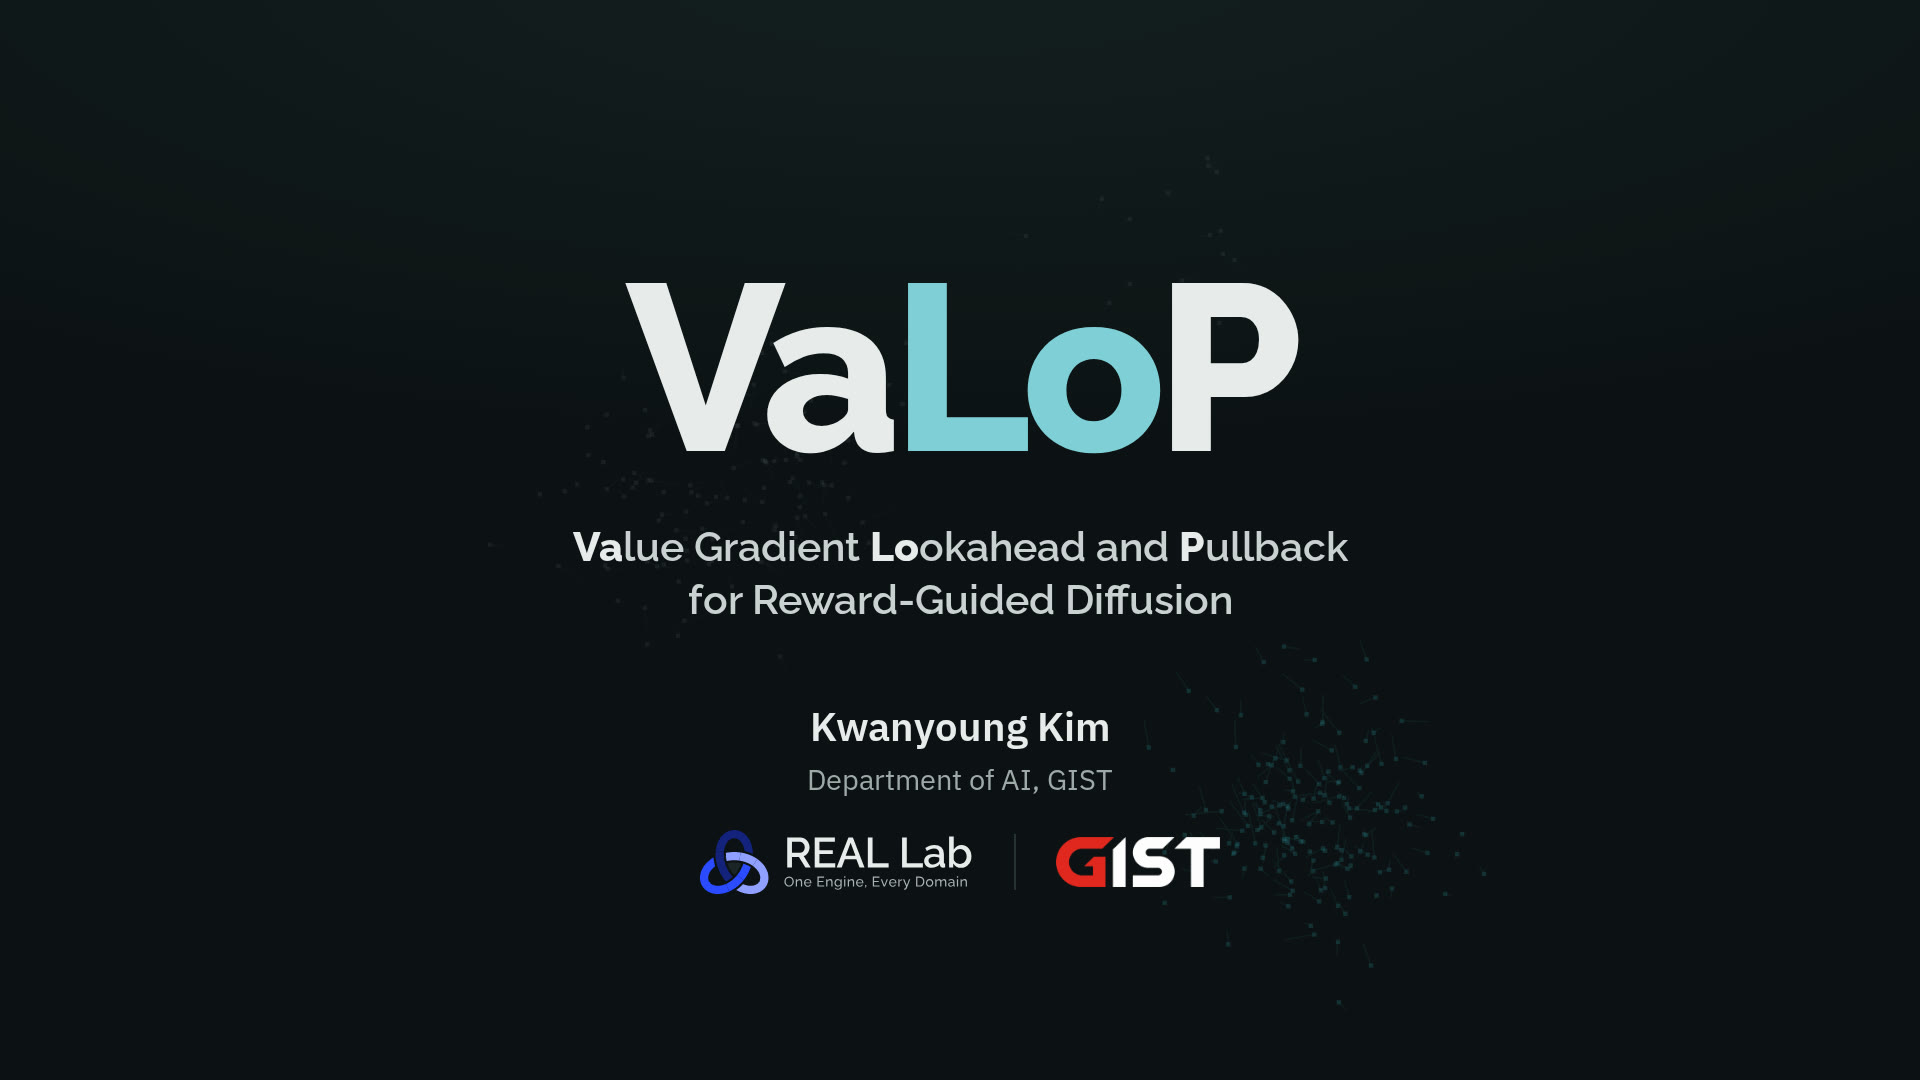
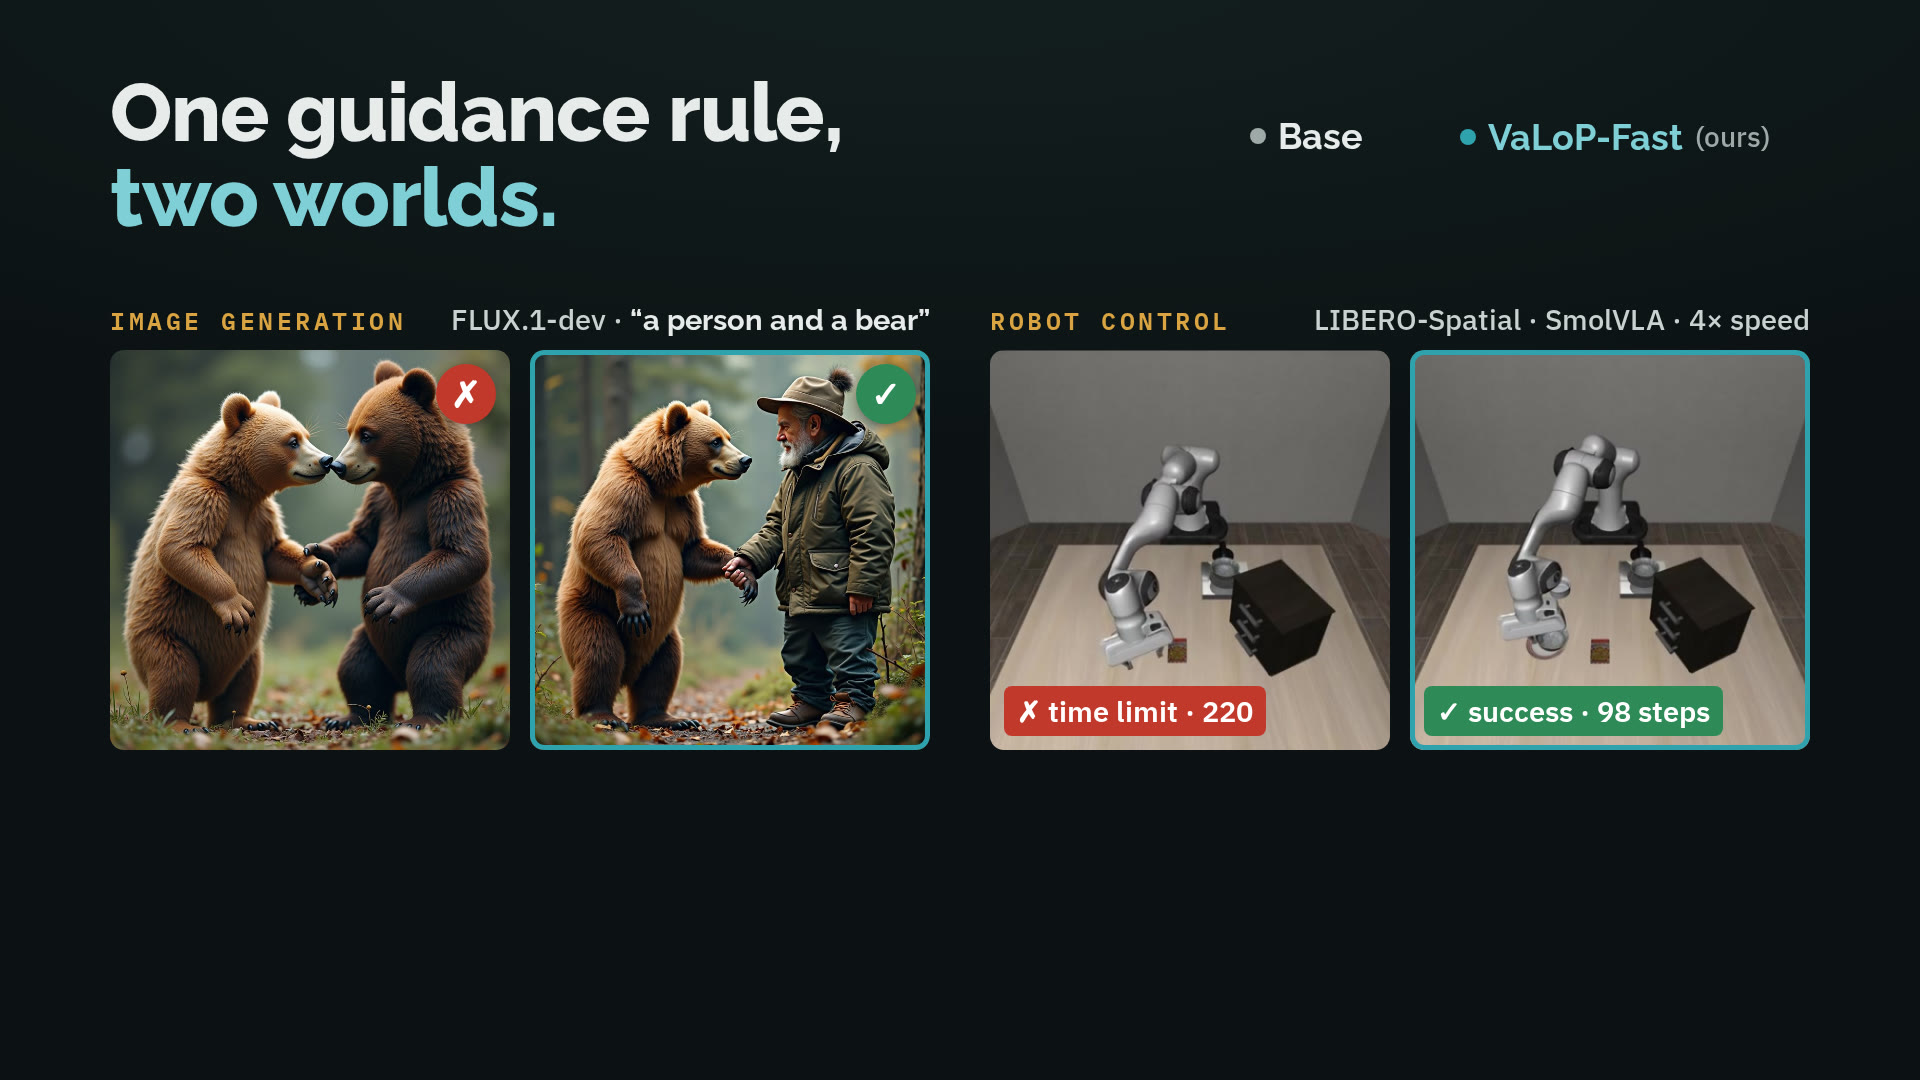
Move the overview video into the hero, under the title and author
Claude-Session: https://claude.ai/code/session_01MPmemYRSMFCwUdWDZWvWG9

diff --git a/index.html b/index.html
@@ -394,9 +394,8 @@ body { font-size: 19px; }
 .pill { font-size: 16px; } .tag { font-size: 15px; }
 footer { font-size: 16px; }
 @media (max-width: 560px) { body { font-size: 17.5px; } .cell .who { font-size: 11px; } .cell .ctr, .cell .res { font-size: 10.5px; } .race .task q { font-size: 19px; } }
-.overview .ov-frame { border-radius: 14px; overflow: hidden; background: #0c1213; border: 1px solid var(--line); box-shadow: 0 10px 40px rgba(0,0,0,.28); }
-.overview video { display: block; width: 100%; height: auto; }
-.overview .ov-note { margin-top: 12px; color: var(--soft); font-size: 15px; }
+.hero-video { margin-top: 22px; border-radius: 14px; overflow: hidden; background: #0c1213; border: 1px solid var(--line); box-shadow: 0 10px 40px rgba(0,0,0,.28); }
+.hero-video video { display: block; width: 100%; height: auto; }
 </style>
 </head>
 <body>
@@ -404,7 +403,6 @@ footer { font-size: 16px; }
   <div class="wrap">
     <a class="brand" href="#top">Va<b>Lo</b>P</a>
     <ul>
-      <li><a href="#video">Video</a></li>
       <li><a href="#abstract">Abstract</a></li>
       <li><a href="#why">Why</a></li>
       <li><a href="#method">Method</a></li>
@@ -437,6 +435,7 @@ footer { font-size: 16px; }
       <a class="pill" aria-disabled="true" role="link" tabindex="-1">Code <span class="soon">soon</span></a>
       <a class="pill primary" href="#bibtex">BibTeX</a>
     </div>
+    <div class="hero-video"><video src="assets/vid/overview_16x9.mp4" poster="assets/vid/overview_16x9_poster.jpg" controls preload="metadata" playsinline width="1920" height="1080" aria-label="Narrated overview of VaLoP with captions: the problem, the method, and results on image generators and robot policies"></video></div>
     <p class="duo-head">One guidance rule for <span>image generators</span> and <span>robot policies</span></p>
     <div class="duo">
       <figure class="duo-panel">
@@ -466,17 +465,6 @@ footer { font-size: 16px; }
 </header>
 
 <main>
-<section id="video" class="overview">
-  <div class="wrap">
-    <div class="sec-head">
-      <span class="eyebrow">Video</span>
-      <h2>VaLoP in 72 seconds</h2>
-    </div>
-    <div class="ov-frame"><video src="assets/vid/overview_16x9.mp4" poster="assets/vid/overview_16x9_poster.jpg" controls preload="metadata" playsinline width="1920" height="1080" aria-label="Narrated 72-second overview of VaLoP with captions: the problem, the method, and results on image generators and robot policies"></video></div>
-    <p class="ov-note">With narration and captions.</p>
-  </div>
-</section>
-
 <section id="abstract" class="abstract">
   <div class="wrap abs-wrap">
     <span class="eyebrow">Abstract</span>
